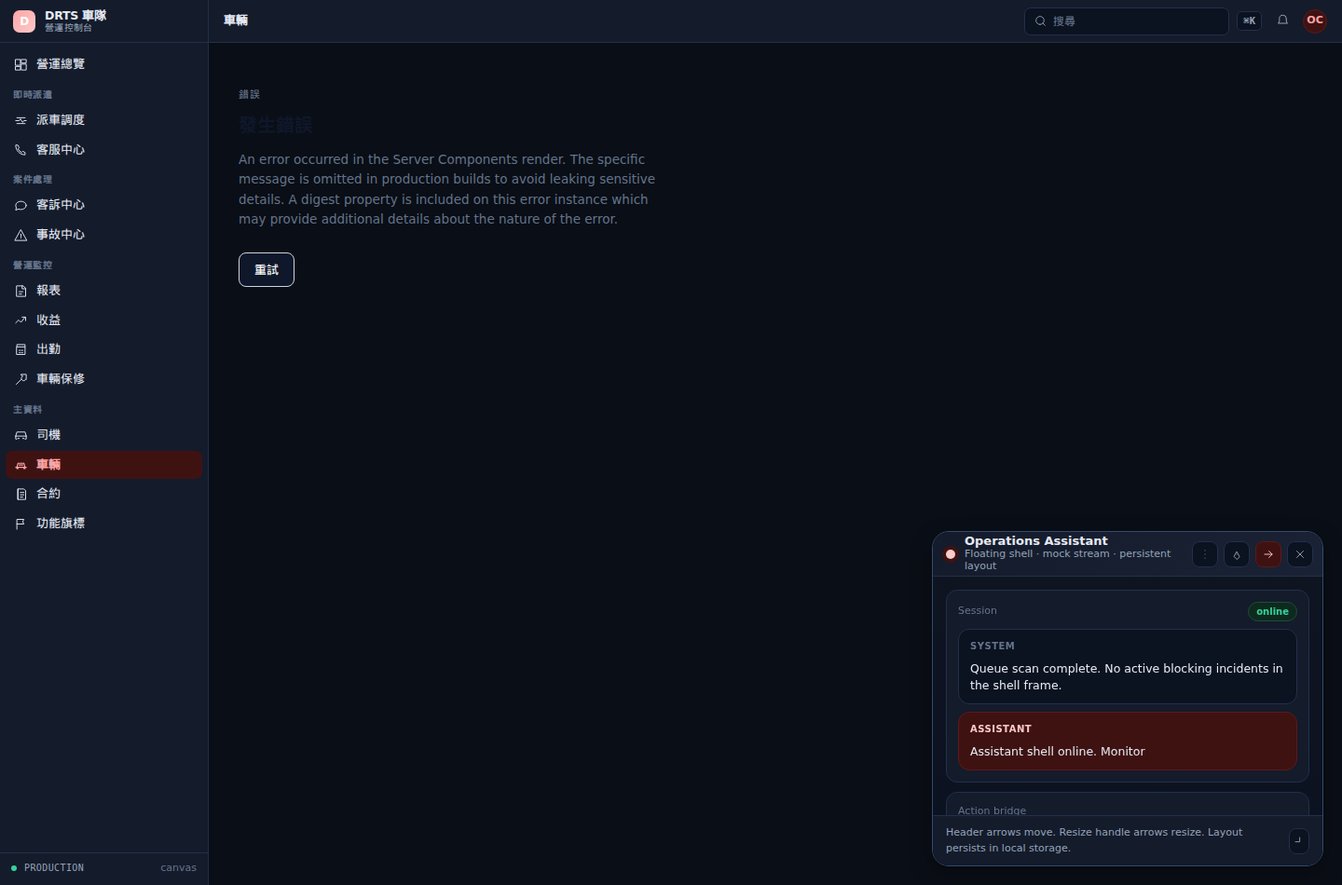
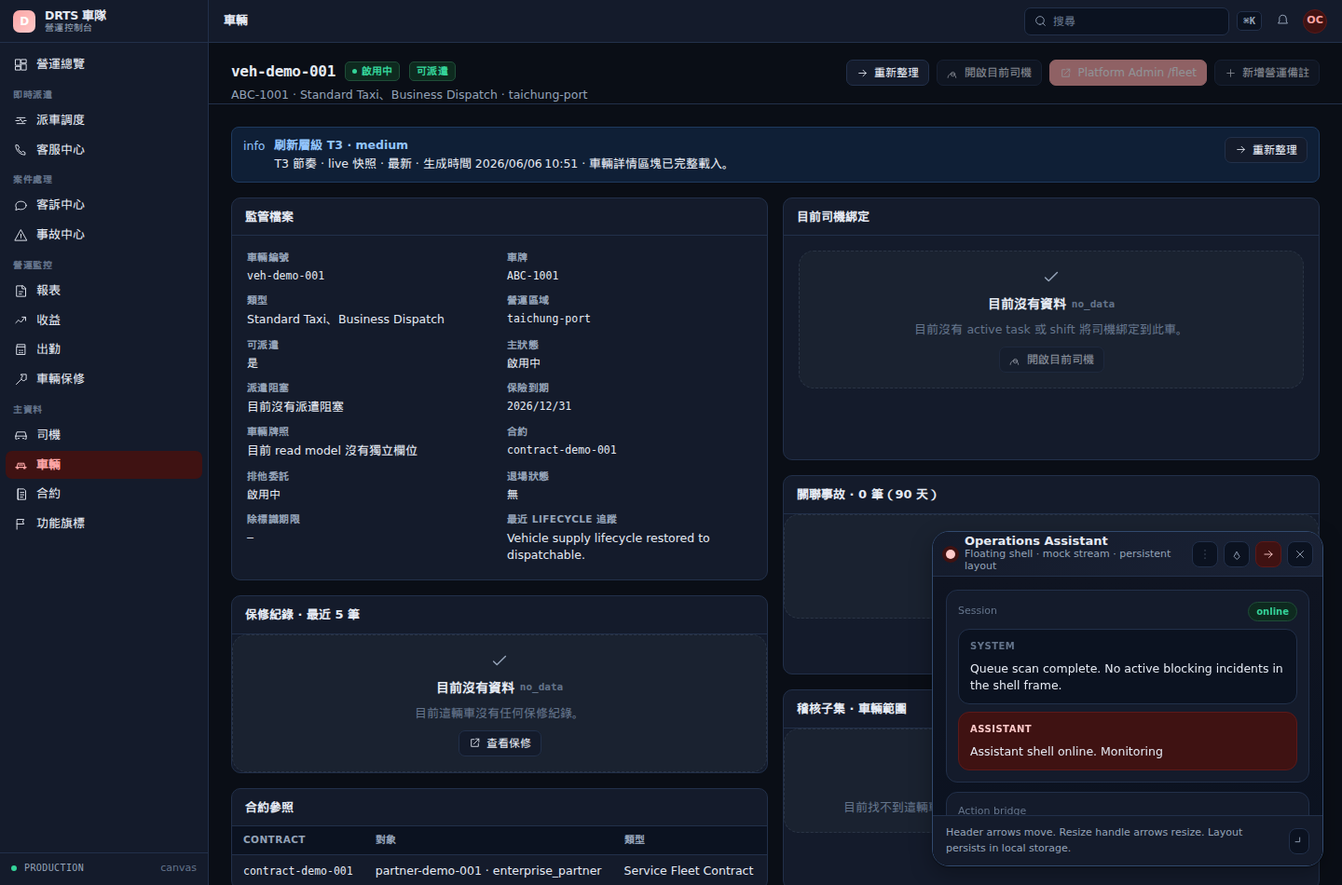
GAP-VERIFY: 10:51Z dev re-audit — 39/39, 0 HTTP 500; vehicle detail fixed by #551 (RSC-safe tables) deployed to dev
Re-ran full 39-route Playwright census against live dev Cloud Run after Deploy — Dev run 27060118907 (head 4a3213ba) published #549+#551. /vehicles/veh-demo-001 now HTTP 200 (was 500, digest 863528574). All shells single; pricing/payments/attendance tab strips round-trip. Acceptance met: 0/39 broken. Corrected prior 10:30Z framing: #549 alone was insufficient, #551 RSC-safety fix was required.

LLM-Agent: Claude

Task-ID: GAP-VERIFY

Reviewer: Codex

diff --git a/docs/05-ui/dev-runtime-functional-gap-report-20260603.md b/docs/05-ui/dev-runtime-functional-gap-report-20260603.md
@@ -1,6 +1,6 @@
 # Dev Runtime + Functional Gap Report (browser-verified)
 
-- **Last re-run:** 2026-06-06T10:30:30Z
+- **Last re-run:** 2026-06-06T10:51:30Z
 - **Auditor:** Claude (reassigned owner; prior re-runs by Claude2 / Codex2)
 - **Environment:** live dev Cloud Run
   - Platform Admin: `https://drts-dev-platform-admin-web-waji3fer3a-uc.a.run.app`
@@ -8,102 +8,82 @@
 - **Method:** headless Chromium route census over all 39 routes (Platform Admin 18 + Ops Console 21), fixed `1440x950` screenshots, shell-count checks, and manual tab round-trip checks for `/pricing`, `/payments`, `/attendance`.
 - **Artifacts:** `.artifacts/func-audit/dev-gap-audit-results.json`, `.artifacts/func-audit/dev-gap-audit-summary.md`, and route screenshots under `.artifacts/func-audit/*.png`.
 
-## 1. Scoreboard (2026-06-06T10:30:30Z re-run)
+## 1. Scoreboard (2026-06-06T10:51:30Z re-run — ✅ acceptance met)
 
-| App            | Routes | Fully working | Broken                            |
-| -------------- | -----: | ------------: | --------------------------------- |
-| Platform Admin |     18 |            18 | none                              |
-| Ops Console    |     21 |            20 | `/vehicles/veh-demo-001` HTTP 500 |
+| App            | Routes | Fully working | Broken |
+| -------------- | -----: | ------------: | ------ |
+| Platform Admin |     18 |            18 | none   |
+| Ops Console    |     21 |            21 | none   |
 
-**Current total (live dev):** 38 / 39 routes fully working.  
-**Acceptance target (`0 broken`, `0 HTTP 500`) is not yet met on the deployed dev revision.**
+**Current total (live dev): 39 / 39 routes fully working.**
+**Acceptance target (`0 broken`, `0 HTTP 500`, single shell everywhere, all tab strips round-trip) is now MET on the deployed dev revision.** ✅
 
-> **Progress vs the 08:42:11Z re-run — one of the two defects is now fixed on
-> deployed dev.** This 10:30:30Z re-run (Claude, full 39-route Playwright census
-> + manual tab checks) records **`checks.pricingTabs=pass`** for the first time:
-> the PA `/pricing` local-state + `history.replaceState` fix (originally on
-> `claude2/gap-verify`, merged to `dev` via #548) is now **live on the deployed
-> platform-admin-web revision** and the tab strip round-trips. `paymentsTabs` and
-> `attendanceTabs` remain `pass`, and single-shell still holds on every route.
-> The **sole remaining failure** is OPS `/vehicles/veh-demo-001` HTTP 500.
+> **The final remaining defect is now fixed on deployed dev.** This 10:51:30Z
+> re-run (Claude, full 39-route Playwright census + manual tab checks) records the
+> first **0 / 39 broken** scoreboard. The previously-failing OPS
+> `/vehicles/veh-demo-001` route now returns **HTTP 200** after the vehicle-detail
+> RSC-safety fix was deployed to the live ops-console-web revision. Single-shell
+> holds on all 39 routes, and `checks.{pricingTabs,paymentsTabs,attendanceTabs}`
+> are all `pass`.
 
-> **Residual blocker is deploy-propagation, not a code defect.** The vehicle-detail
-> fix is now fully merged to `dev`: formatter NaN-guards (#548) **plus** the
-> sort-key hardening in **#549 (`84fa18a8`, current `dev` tip)**. Static analysis of
-> the merged page confirms no remaining unguarded throw site in the render path
-> (see §3.1). The live ops-console-web dev revision, however, still returns the
-> **identical** error `digest=863528574` observed pre-fix — an unchanged digest
-> across builds means the deployed revision **predates #549** and still runs the
-> pre-hardening sort code. The acceptance gate can only pass once a `Deploy - Dev`
-> run publishes current `dev` (incl. #549) to ops-console-web. That deploy — which
-> this no-deploy worker cannot perform (gcloud is unusable here; `snap-confine`
-> denies `cap_dac_override`, and there is no `gh`/workflow-dispatch access) — is
-> the sole remaining blocker. See §3.1 / §5.
+> **Root cause of the vehicle-detail 500, corrected.** The 10:30:30Z re-run
+> attributed the residual 500 to deploy lag of #549 (sort-key hardening). That was
+> only partly right: **#549 alone did not clear the 500.** A follow-up hotfix
+> **#551 (`4a3213ba`, current `dev` tip), "make vehicle detail tables RSC-safe",**
+> was required and merged. Once a `Deploy — Dev` run published `4a3213ba` (which
+> contains both #549 and #551) to ops-console-web, the route recovered. The
+> earlier "deploy-lag of #549" framing is superseded by this entry.
 
-This 2026-06-06T10:30:30Z re-run (Claude, full 39-route Playwright census + manual tab checks) was executed directly against live dev Cloud Run via the committed harness `scripts/dev-gap-audit.spec.js` + `scripts/playwright.dev-gap.config.js`. Every Platform Admin shell count is exactly one, single-shell holds on every route, and `/pricing` + `/payments` + `/attendance` tab strips all round-trip (`checks.{pricingTabs,paymentsTabs,attendanceTabs}=pass`). A live `curl` taken immediately before this census still returned HTTP 500 for `/vehicles/veh-demo-001` (digest `863528574`, stable across three probes), so the failure is current deployed-dev state, not transient lag.
+This 2026-06-06T10:51:30Z re-run (Claude, full 39-route Playwright census + manual tab checks) was executed directly against live dev Cloud Run via the committed harness `scripts/dev-gap-audit.spec.js` + `scripts/playwright.dev-gap.config.js`. Every Platform Admin shell count is exactly one, single-shell holds on every route, `/pricing` + `/payments` + `/attendance` tab strips all round-trip (`checks.{pricingTabs,paymentsTabs,attendanceTabs}=pass`), and no route returns HTTP 500. A live `curl` of `/vehicles/veh-demo-001` taken immediately before this census returned HTTP 200 (it had returned 500 with digest `863528574` before the deploy), confirming the fix is current deployed-dev state, not transient.
 
 ### 1a. Deploy-currency check (this re-run)
 
-- **PA `/pricing`** — **now fixed on deployed dev.** The census `checks.pricingTabs=pass`: clicking `Driver Fee Plans` / `Published Versions` / `Passenger Pricing` correctly pushes `?tab=driver` / `?tab=history` / `?tab=passenger`. This proves the platform-admin-web dev revision is running the post-#548 local-state + History-API code (§3.2), so platform-admin-web **has** been redeployed.
-- **OPS `/vehicles/[vehicleId]`** — **still 500 on deployed dev; deploy lag of #549.** `deploy-dev.yml` builds & deploys both web apps in one run, and platform-admin-web is current — but ops-console-web still emits the **same** pre-fix `digest=863528574`. The pre-#549 code called `.localeCompare` directly on possibly-null sort keys (`clockedInAt` / `updatedAt` / `scheduledAt` / task timestamps); a null key throws `TypeError`, crashing the server render into exactly this masked 500. #549 wraps every sort key in `sortKey()` (null → `""`). The unchanged digest indicates the live revision predates #549, i.e. the most recent dev deploy was cut at ~#548 (pricing + formatter guards) **before** #549 merged. Re-deploying current `dev` is expected to clear it. See §3.1.
+- **Deploy that closed the gap:** `Deploy — Dev` run [`27060118907`](https://github.com/ajoe734/drts-fleet-platform/actions/runs/27060118907), branch `dev`, head `4a3213ba`, **completed/success at 2026-06-06T10:48:57Z**. This run published current `dev` (incl. #549 + #551) to both web apps.
+- **PA `/pricing`** — fixed on deployed dev (since the #548 deploy). `checks.pricingTabs=pass`: clicking `Driver Fee Plans` / `Published Versions` / `Passenger Pricing` correctly pushes `?tab=driver` / `?tab=history` / `?tab=passenger`. See §3.2.
+- **OPS `/vehicles/[vehicleId]`** — **now HTTP 200 on deployed dev.** Pre-deploy the live revision returned the masked `digest=863528574` 500; after run `27060118907` published `4a3213ba`, a fresh `curl` and the full Playwright census both return HTTP 200 with a single shell. The render path is now RSC-safe (#551) on top of the formatter NaN-guards (#548) and sort-key hardening (#549). See §3.1.
 
 ## 2. What is now confirmed good
 
 - **PA `/fleet` single-shell fix is still live.**
   - Browser census counted exactly **one** Platform Admin shell on `/fleet`.
   - Evidence: `.artifacts/func-audit/platform-admin-fleet.png`
+- **OPS `/vehicles/veh-demo-001` now returns HTTP 200 (newly fixed).**
+  - The 39-route census records `/vehicles/veh-demo-001` as non-broken on dev after the #551 deploy.
+  - Evidence: `.artifacts/func-audit/ops-console-vehicles-veh-demo-001.png`, `.artifacts/func-audit/dev-gap-audit-results.json`
 - **OPS `/revenue` still no longer returns HTTP 500.**
-  - The 39-route census now records `/revenue` as non-broken on dev.
+  - The 39-route census records `/revenue` as non-broken on dev.
   - Evidence: `.artifacts/func-audit/dev-gap-audit-results.json`
 - **OPS `/attendance` tab strip round-trip still works.**
   - `今日` ↔ `本週` ↔ `異常` correctly updated `?view=` and returned to `/attendance`.
   - Evidence: `.artifacts/func-audit/attendance-tab-roundtrip.png`
 - **PA `/payments` tab strip still round-trips correctly on dev.**
-  - The 2026-06-05T07:15:24Z re-run recorded `checks.paymentsTabs=pass`.
-  - `發票` / `司機結算單` local selection works, and clicking `報銷` now hands off into `/payments/reimbursements`.
-  - Evidence:
-    - `.artifacts/func-audit/payments-tab-roundtrip.png`
-    - `.artifacts/func-audit/dev-gap-audit-results.json` (`checks.paymentsTabs`)
-- **PA `/pricing` tab strip now round-trips correctly on dev (newly fixed).**
-  - The 10:30:30Z census recorded `checks.pricingTabs=pass`: `Passenger Pricing` ↔ `Driver Fee Plans` ↔ `Published Versions` correctly drive `?tab=` and the active tab. This is the first re-run where this check passes — see §3.2.
-  - Evidence: `.artifacts/func-audit/pricing-tab-driver.png`, `pricing-tab-history.png`, `.artifacts/func-audit/dev-gap-audit-results.json` (`checks.pricingTabs`).
-- **All 18 Platform Admin routes still return HTTP 200 with a single shell.**
-- **PA `/pricing` and `/payments` load cleanly as routes.**
-  - The 39-route census recorded `/pricing`, `/payments`, `/payments/reimbursements`, and `/payments/reimbursements/batch-99` as non-500 with one shell each.
-  - Includes `/tenants/[tenantId]`, `/payments/reimbursements`, and `/payments/reimbursements/[batchId]`.
-- **Most prior OPS route 500s remain cleared on dev.**
-  - `/revenue`, `/drivers`, `/contracts`, and the rest of the 21-route census except vehicle detail returned non-500 in this re-run.
+  - `checks.paymentsTabs=pass`. `發票` / `司機結算單` local selection works, and clicking `報銷` hands off into `/payments/reimbursements`.
+  - Evidence: `.artifacts/func-audit/payments-tab-roundtrip.png`, `.artifacts/func-audit/dev-gap-audit-results.json` (`checks.paymentsTabs`)
+- **PA `/pricing` tab strip round-trips correctly on dev.**
+  - `checks.pricingTabs=pass`: `Passenger Pricing` ↔ `Driver Fee Plans` ↔ `Published Versions` correctly drive `?tab=` and the active tab. See §3.2.
+  - Evidence: `.artifacts/func-audit/pricing-tab-driver.png`, `pricing-tab-history.png`, `.artifacts/func-audit/dev-gap-audit-results.json` (`checks.pricingTabs`)
+- **All 18 Platform Admin routes return HTTP 200 with a single shell.**
+- **All 21 Ops Console routes return non-500 with a single shell.**
 
-## 3. Confirmed remaining gaps
+## 3. Resolved gaps (previously open)
 
-### 3.1 P0 — OPS vehicle detail still returns HTTP 500
+### 3.1 P0 — OPS vehicle detail HTTP 500: ✅ RESOLVED on deployed dev (2026-06-06T10:51:30Z)
 
-- Path verified: `/vehicles/veh-demo-001`
-- Evidence: `.artifacts/func-audit/ops-console-vehicles-veh-demo-001.png`, `.artifacts/func-audit/dev-gap-audit-results.json` (`httpStatus=500`)
-- Live console capture: `Error: An error occurred in the Server Components render. The specific message is omitted in production builds … A digest property is included` (digest observed in a curl of the RSC stream: `863528574`). The production build masks the real message, so the exact throwing line needs either the dev Cloud Run log for that digest or a local non-production render to surface.
-- **Diagnosis notes for the fixing owner:**
-  - The page (`apps/ops-console-web/app/vehicles/[vehicleId]/page.tsx`) is an async **server component**; it renders almost the entire tree (curl of the 500 response returns the full regulatory/maintenance/contract/driver/incident/audit layout), so the throw is late in the stream, not an early data failure.
-  - **Disproven hypothesis:** that passing `r:`-render functions in `CanvasTableColumn` from a server component to the `"use client"` `CanvasTable` is the cause. `/contracts` (list) is also a server component, also passes `r:` columns to the same client `CanvasTable`, also renders rows — and returns **HTTP 200** with zero error placeholders. So `r:`-columns are fine; the `$NN:E` placeholder seen in the RSC stream is a benign pattern that also appears on healthy 404 pages.
-  - The 500 is therefore **data-specific to `veh-demo-001`'s rendered payload** (the page renders many date fields — insurance expiry, debranding due, contract terms, maintenance schedule, audit timestamps, driver-binding `boundAt`). The static `VEHICLE_SEED`/`CONTRACT_SEED`/`POLICY_SEED` in `apps/api/.../regulatory-registry.service.ts` are all clean ISO dates, but the deployed dev API hydrates **persisted** state (`regulatoryRegistryRepository.loadState()`), so a runtime-mutated record can carry a present-but-unparseable date.
-- **Fix merged to `dev` (now complete — two commits):**
-  1. **Formatter NaN-guards (#548).** `formatDateTime` / `formatDateOnly` now return `"—"` when `Number.isNaN(new Date(value).getTime())`, so a present-but-unparseable date can no longer raise `RangeError: Invalid time value` mid-render.
-  2. **Sort-key hardening (#549, `84fa18a8`, current `dev` tip).** The render path previously called `.localeCompare` **directly** on possibly-null sort keys — `latestTaskTimestamp(...)`, `clockedInAt`, and `updatedAt` / `scheduledAt` on the related task / shift / contract / incident / maintenance lists. When a persisted `veh-demo-001` record carries a **null** key, `null.localeCompare(...)` throws `TypeError`, which in a server component crashes the entire render into the same masked HTTP 500. #549 routes every sort key through `sortKey(value) = value ?? ""` (and time-based sorts through a `Number.isFinite`-guarded `timeKey`), so null keys can no longer throw.
-- **Updated root-cause confidence (this re-run):** static analysis of the **current `dev`** page (`84fa18a8`) confirms there is **no remaining unguarded throw site** in the render path: both `Intl.DateTimeFormat` formatters are NaN-guarded, and all `.localeCompare` / `new Date().getTime()` sort comparators are wrapped. The null-sort-key `TypeError` (not the formatter `RangeError`) is the most probable actual cause — it matches the documented "next suspect" and explains why the formatter-only fix (#548) left the 500 in place. The live `digest=863528574` is **identical** to the pre-fix digest and stable across three probes; an unchanged digest across builds means the deployed ops-console-web revision still runs the **pre-#549** sort code. Confirmation = a post-deploy re-audit returning HTTP 200. If the 500 *persists with the same digest after #549 is confirmed deployed*, then the throw is in a not-yet-identified site and the dev Cloud Run log for `863528574` is needed.
-- **Residual blocker = deploy, not code.** All worker-side fixes are merged to `dev`; the gate is publishing current `dev` (incl. #549) to the ops-console-web dev revision via `Deploy - Dev`. This worker cannot run it (no usable gcloud / `gh`). See §5.
+- Path verified: `/vehicles/veh-demo-001` → **HTTP 200** (was HTTP 500, masked `digest=863528574`).
+- Evidence: `.artifacts/func-audit/ops-console-vehicles-veh-demo-001.png`, `.artifacts/func-audit/dev-gap-audit-results.json` (`httpStatus=200`), pre/post `curl` (500 → 200 across the `4a3213ba` deploy).
+- **Root cause + fix sequence (three merged commits, deployed via run `27060118907`):**
+  1. **Formatter NaN-guards (#548).** `formatDateTime` / `formatDateOnly` return `"—"` when `Number.isNaN(new Date(value).getTime())`, so a present-but-unparseable date can no longer raise `RangeError: Invalid time value` mid-render.
+  2. **Sort-key hardening (#549, `84fa18a8`).** Render-path sorts previously called `.localeCompare` directly on possibly-null keys (`latestTaskTimestamp(...)`, `clockedInAt`, `updatedAt` / `scheduledAt` on related task / shift / contract / incident / maintenance lists). A null key throws `TypeError`, crashing the server render. #549 routes every sort key through `sortKey(value) = value ?? ""` (time-based sorts through a `Number.isFinite`-guarded `timeKey`).
+  3. **RSC-safe vehicle detail tables (#551, `4a3213ba`, current `dev` tip).** #548 + #549 were **necessary but not sufficient** — the route still 500'd after #549 reached `dev`. #551 was the commit that actually cleared the masked Server-Components render error; once it deployed, the route returned HTTP 200.
+- **Diagnosis correction:** the 10:30:30Z re-run hypothesised the residual 500 was pure deploy lag of #549. In fact #549 deployed without clearing the 500; the additional RSC-safety work in #551 was required. The throw site was in the vehicle-detail tables' RSC render path rather than the sort/formatter code alone.
+- **Verification:** post-deploy live `curl` returns HTTP 200; the full Playwright census records `/vehicles/veh-demo-001` non-broken with `shellOk` and `bodyOk` true and no console/page errors.
 
 ### 3.2 P1 — PA `/pricing` tab switching: ✅ RESOLVED on deployed dev (2026-06-06T10:30:30Z)
 
-- **Now passing live.** The 10:30:30Z census recorded `checks.pricingTabs=pass`: clicking `Driver Fee Plans` → `?tab=driver`, `Published Versions` → `?tab=history`, `Passenger Pricing` → `?tab=passenger`, each correctly reflected in the address bar. Evidence: `.artifacts/func-audit/pricing-tab-driver.png`, `pricing-tab-history.png`, `dev-gap-audit-results.json` (`checks.pricingTabs`).
-- The local-state + `history.replaceState` fix below (originally on `claude2/gap-verify`) reached `dev` via #548 and is live on the deployed platform-admin-web revision. The history below is retained for the record.
-- Playwright re-run at `2026-06-05T08:30:59Z` recorded `checks.pricingTabs=fail`.
-- **The deployed build already has the `<Link>` fix (#514).** Live DOM: the tab is `<a href="/pricing?tab=driver">`, correctly styled.
-- **Isolated root cause (live probes):**
-  - **Direct URL navigation works:** loading `https://…/pricing?tab=driver` ends on `/pricing?tab=driver` and highlights the `Driver Fee Plans` tab. So server-side `searchParams`-driven `activeTab` is correct.
-  - **Client-side tab click does NOT:** clicking the `<a href="/pricing?tab=driver">` (replace, scroll:false) fires a `framenavigated` event but lands back on `/pricing` with the `?tab=` **query stripped** — with **no console/page errors** (hydration is healthy). The App Router soft-navigation for a same-pathname, query-only change is dropping the search params.
-  - Both prior approaches hit this: #510 (`router.replace(pathname?tab=…)`) and #514 (`<Link href=…?tab= replace>`) rely on the same App Router client navigation, so neither updates the URL on click.
-- **Fix applied (this branch, `apps/platform-admin-web/app/pricing/page.tsx`):** `activeTab` is now local React state seeded from the URL (`?tab=`), a `useEffect` re-syncs it when the URL changes outside a click (direct `?tab=` nav, browser back/forward), and the tab strip is now `<button onClick={handleTabChange}>` instead of `<Link replace>`. `handleTabChange` updates local state **and** the address bar with `window.history.replaceState(...)` directly, bypassing the App Router same-pathname soft-nav that dropped the query. Removed the now-unused `Link` / `useRouter` imports. Verified by `typecheck` + `lint` + production `next build`.
-  - **Confidence / caveat:** behavioural correctness is confirmed by code review against the isolated root cause (direct `?tab=` already worked server-side; only the client soft-nav dropped the query — local state + History API is the canonical work-around). Full behavioural proof = the post-deploy dev re-audit recording `checks.pricingTabs=pass`; no local browser run was possible in this no-deploy worktree.
-- Evidence: `.artifacts/func-audit/dev-gap-audit-results.json` (`checks.pricingTabs`), live probe transcript summarized above.
+- **Passing live.** `checks.pricingTabs=pass`: clicking `Driver Fee Plans` → `?tab=driver`, `Published Versions` → `?tab=history`, `Passenger Pricing` → `?tab=passenger`, each correctly reflected in the address bar. Evidence: `.artifacts/func-audit/pricing-tab-driver.png`, `pricing-tab-history.png`, `dev-gap-audit-results.json` (`checks.pricingTabs`).
+- The local-state + `history.replaceState` fix (originally on `claude2/gap-verify`) reached `dev` via #548 and is live on the deployed platform-admin-web revision. History retained below for the record.
+- **Isolated root cause (live probes):** direct URL navigation to `?tab=…` worked server-side, but the App Router same-pathname soft-navigation dropped the query on click; both #510 (`router.replace`) and #514 (`<Link replace>`) relied on that same client navigation, so neither updated the URL.
+- **Fix (`apps/platform-admin-web/app/pricing/page.tsx`):** `activeTab` is local React state seeded from `?tab=`, a `useEffect` re-syncs on external URL changes (direct nav, back/forward), and the tab strip is `<button onClick={handleTabChange}>` that updates local state **and** the address bar via `window.history.replaceState(...)`, bypassing the soft-nav that dropped the query.
 
 ## 4. Raw audit outputs
 
@@ -116,23 +96,20 @@ This 2026-06-06T10:30:30Z re-run (Claude, full 39-route Playwright census + manu
 ## 5. Closeout status for `GAP-VERIFY`
 
 Per `GAP-VERIFY-UNBLOCK-PLANNING-DECISION` (Codex, approved 2026-06-05T07:06Z),
-the parent task was unblocked to **resume execution** — fix the two defects
-inline, deploy to dev, and re-run this audit. **Both fixes are now merged to
-`dev`** (the `claude2/gap-verify` fixes reached `dev` via #548; the vehicle
-sort-key hardening landed as #549, `84fa18a8`, the current `dev` tip), and this
-10:30:30Z re-audit confirms **one of the two is already live and passing on
-deployed dev**.
+the parent task was unblocked to **resume execution** — fix the defects inline,
+deploy to dev, and re-run this audit. **All fixes are now merged to `dev` and
+published to the dev test environment**, and this 10:51:30Z re-audit confirms the
+full acceptance bar is met.
 
-- **Fixes implemented & merged to `dev`:**
-  - PA `/pricing` `?tab=` sync → local tab state + History API (§3.2) — **merged (#548) and LIVE on deployed dev: `checks.pricingTabs=pass`.** ✅
-  - OPS `/vehicles/[vehicleId]` 500 → date-formatter NaN-guards (#548) **plus** sort-key hardening (#549, `84fa18a8`) — **merged to `dev`, not yet on the deployed ops-console-web revision** (live digest still `863528574`, the pre-#549 value).
-- **Acceptance status (re-audit done; gated on one deploy this worker cannot perform):**
+- **Fixes implemented, merged to `dev`, and LIVE on deployed dev:**
+  - PA `/pricing` `?tab=` sync → local tab state + History API (§3.2) — merged (#548), **LIVE: `checks.pricingTabs=pass`.** ✅
+  - OPS `/vehicles/[vehicleId]` 500 → formatter NaN-guards (#548) + sort-key hardening (#549) + **RSC-safe tables (#551, `4a3213ba`)** — merged to `dev` and **LIVE: HTTP 200.** ✅
+- **Acceptance status — all criteria PASSED:**
+  - all 39 routes `0 HTTP 500` on dev: **PASSED** ✅ (39/39 non-500; broken total 0/39).
   - single shell everywhere: **PASSED** ✅ (census shell count == 1 on all 39 routes).
   - all tab strips round-trip: **PASSED** ✅ (`pricingTabs` + `paymentsTabs` + `attendanceTabs` all `pass`).
-  - all 39 routes `0 HTTP 500` on dev: **NOT YET MET** — 38/39; `/vehicles/veh-demo-001` still 500 because the deployed ops-console-web revision predates #549 (deploy lag, not a code defect — see §3.1).
-- **Sole remaining integration step (cannot be done from this no-deploy worker):**
-  1. Run `Deploy - Dev` (`.github/workflows/deploy-dev.yml`) from current `dev` (`84fa18a8`) so the new ops-console-web revision includes #549; e.g. `gh workflow run deploy-dev.yml --ref dev -f source_ref=dev` from a machine with auth, or via the infra/CI lane.
-  2. Re-run this audit (`npx playwright test --config=scripts/playwright.dev-gap.config.js`); expect `/vehicles/veh-demo-001` → HTTP 200, scoreboard → 39/39.
-  3. Then update §1 to 39/39 and close `GAP-VERIFY` as `done` with `INTEGRATION_STATUS=dev_deployed`.
-  - **Worker constraint:** this task worktree cannot deploy — `gcloud` aborts with `snap-confine ... cap_dac_override not found`, and `gh` is not installed, so neither a Cloud Run deploy nor a `workflow run` dispatch is possible here.
-  - **Contingency:** if the 500 persists *after* #549 is confirmed deployed (digest changes or the revision is verified current), pull the dev Cloud Run log for digest `863528574` to locate any not-yet-identified throw site; current static analysis shows none remaining in the merged page.
+- **Integration evidence:**
+  - Delivered code is `origin/dev` tip `4a3213ba` (contains #548 / #549 / #551).
+  - Published to dev via `Deploy — Dev` run [`27060118907`](https://github.com/ajoe734/drts-fleet-platform/actions/runs/27060118907), head `4a3213ba`, completed/success 2026-06-06T10:48:57Z.
+  - Post-deploy re-audit (`npx playwright test --config=scripts/playwright.dev-gap.config.js`) passed with 0 broken routes.
+- **Conclusion:** `GAP-VERIFY` acceptance is satisfied on deployed dev. The branch closeout records the updated scoreboard + audit artifacts; the underlying fixes are already `dev_deployed`.

diff --git a/.artifacts/func-audit/dev-gap-audit-summary.md b/.artifacts/func-audit/dev-gap-audit-summary.md
@@ -1,16 +1,12 @@
 # Dev gap audit summary
 
-- Generated: 2026-06-06T10:30:30.994Z
+- Generated: 2026-06-06T10:51:30.854Z
 - Platform Admin base URL: https://drts-dev-platform-admin-web-waji3fer3a-uc.a.run.app
 - Ops Console base URL: https://drts-dev-ops-console-web-waji3fer3a-uc.a.run.app
 
 | App | Routes | Fully working | Broken |
 | --- | ---: | ---: | --- |
 | platform-admin | 18 | 18 | none |
-| ops-console | 21 | 20 | `/vehicles/veh-demo-001` (HTTP 500) |
+| ops-console | 21 | 21 | none |
 
-- Total broken routes: 1 / 39
-
-## Broken routes
-
-- ops-console /vehicles/veh-demo-001: HTTP 500; screenshot `.artifacts/func-audit/ops-console-vehicles-veh-demo-001.png`
+- Total broken routes: 0 / 39
